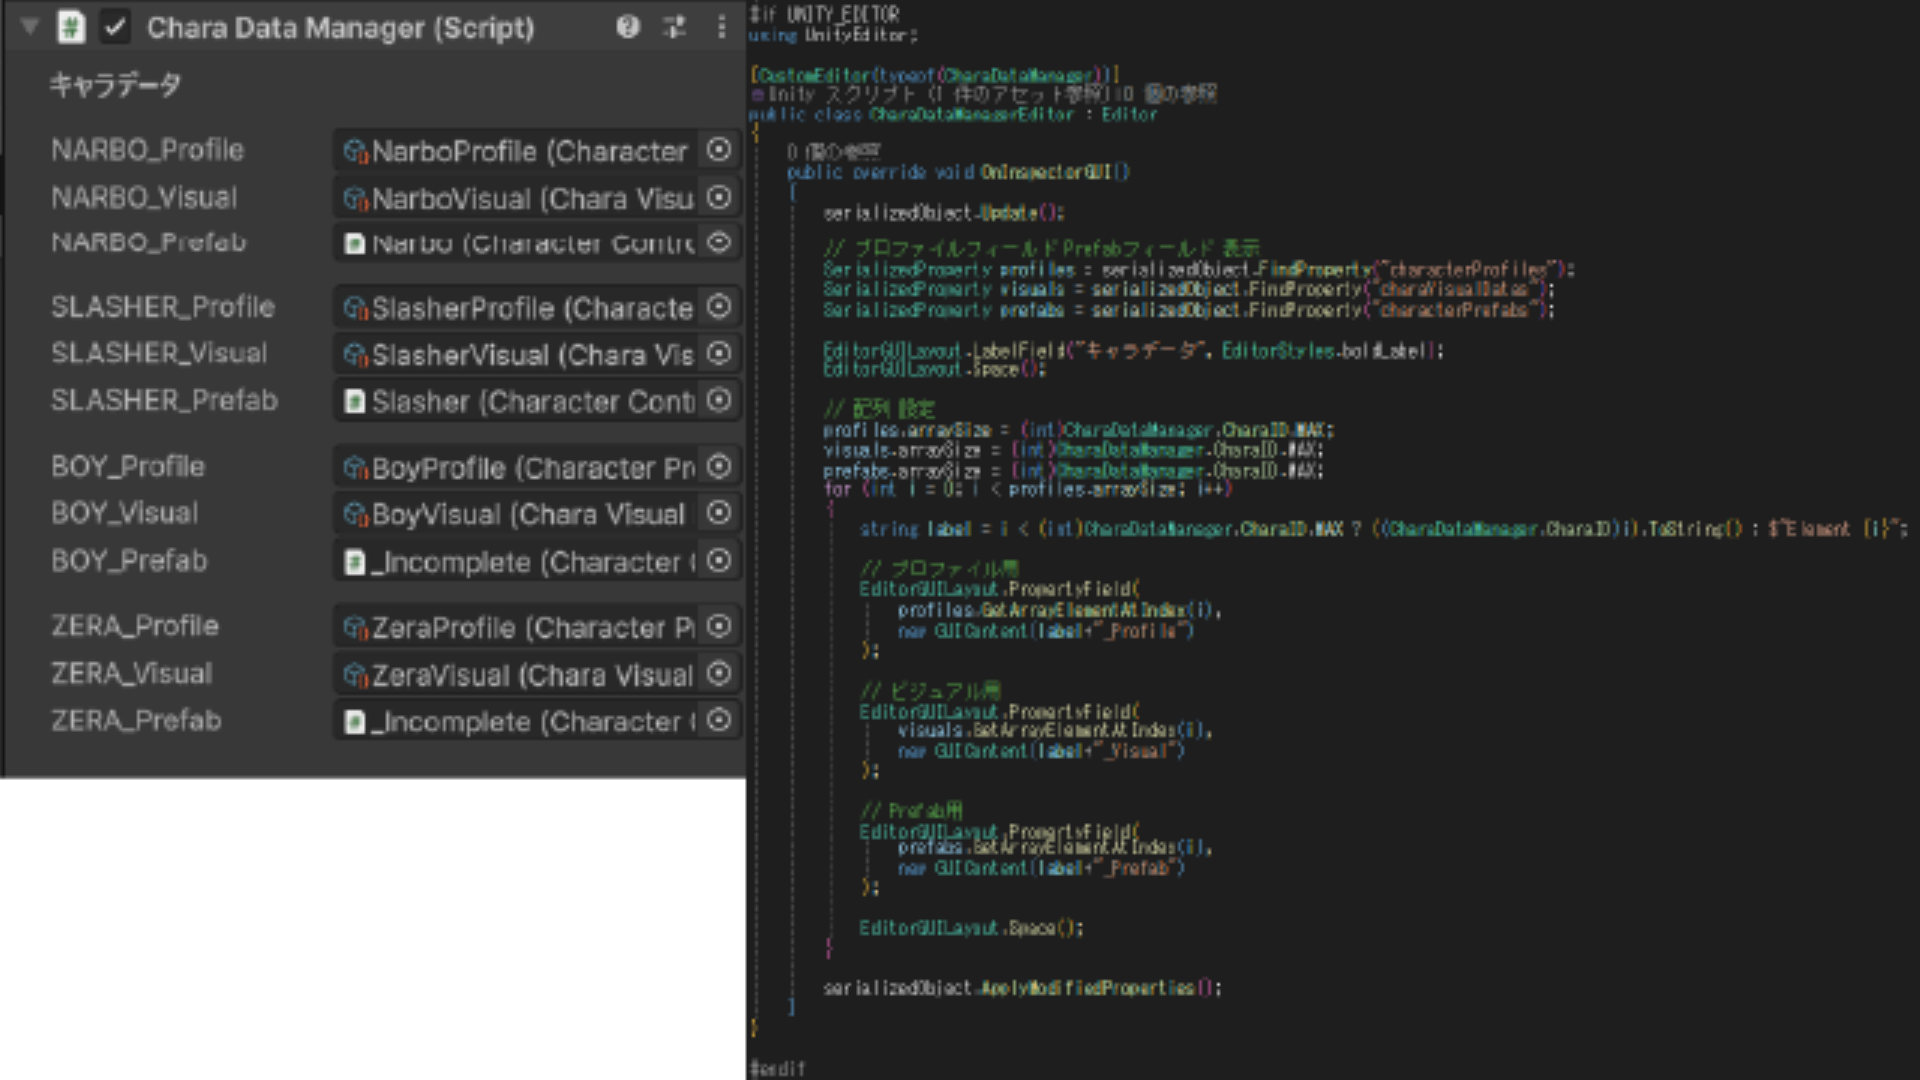
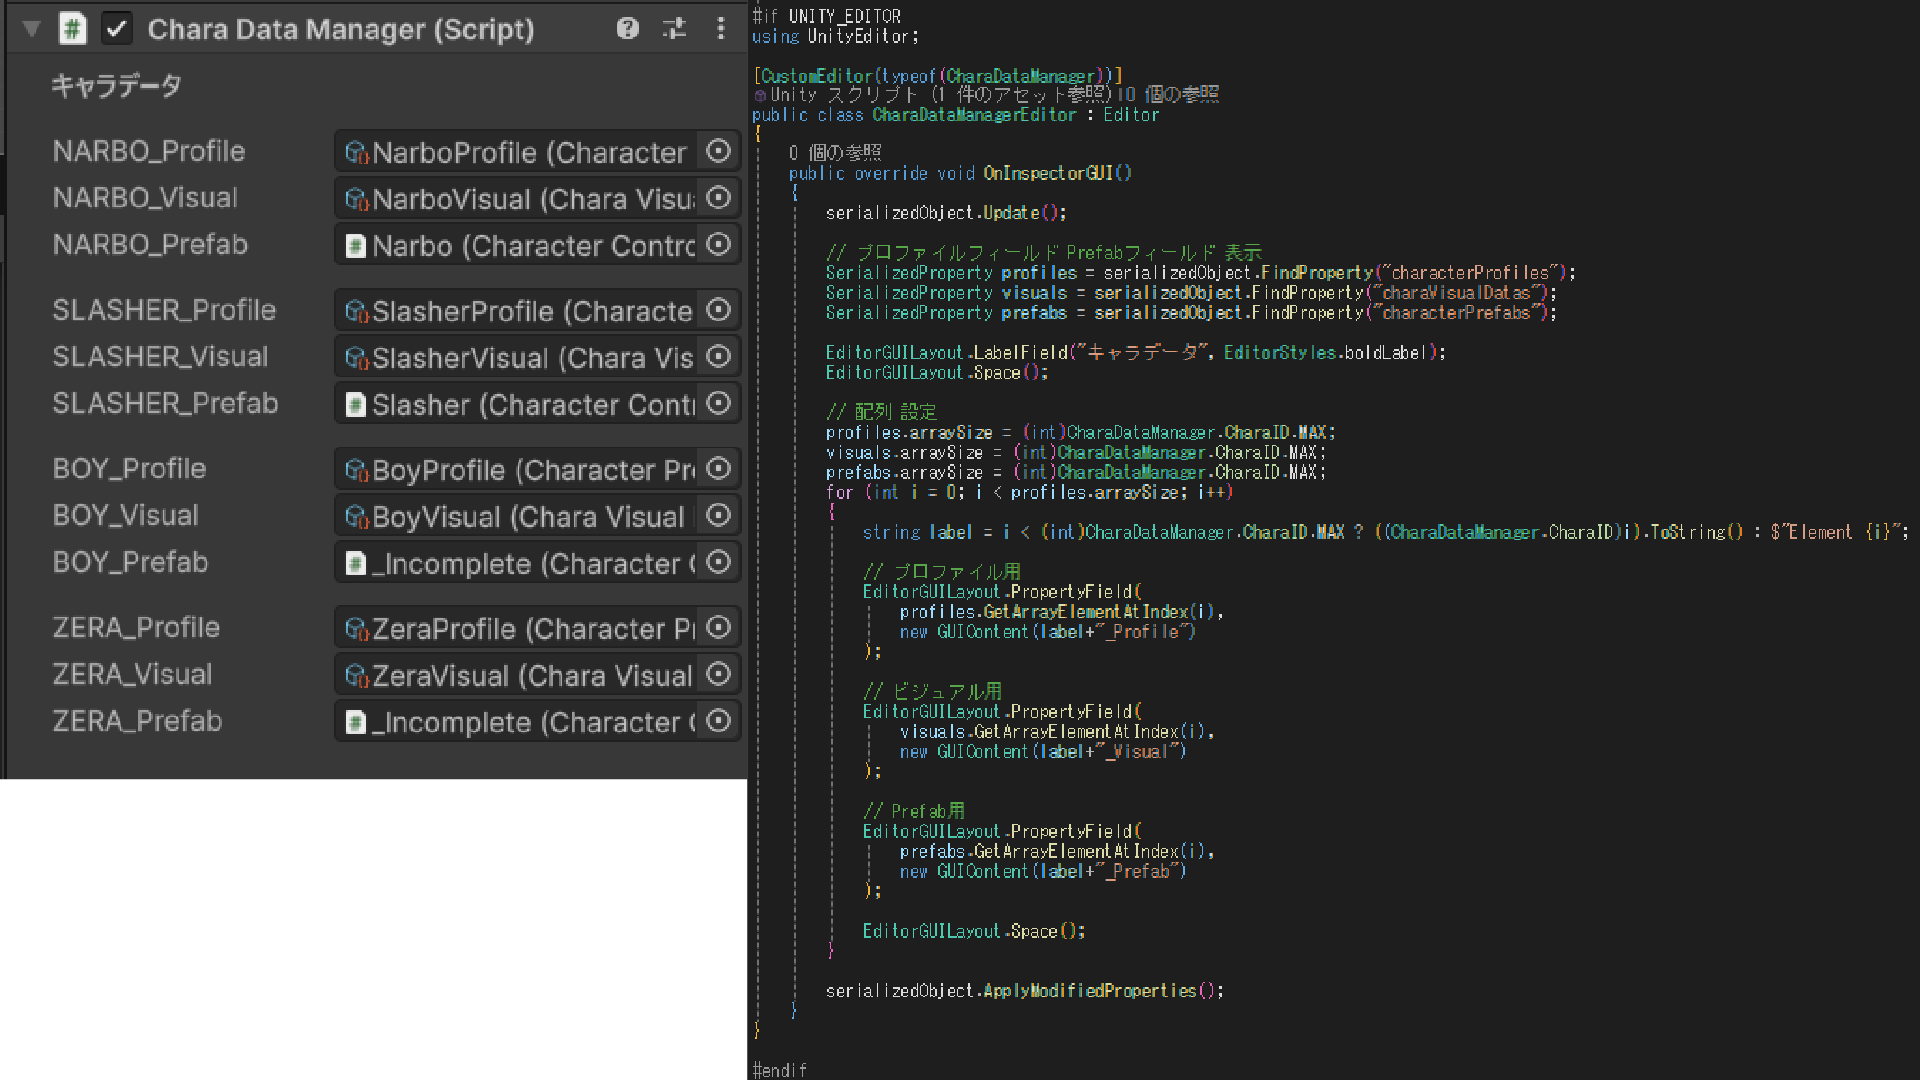
Update README

diff --git a/README.md b/README.md
@@ -8,8 +8,7 @@
 !["スライド1"](./RepositoryImages/ProjectManager_編集済.png)
 !["スライド2"](./RepositoryImages/SoundManager_編集済.png)
 !["スライド3"](./RepositoryImages/CharaDataManager_編集済.png)
-!["スライド4"](./RepositoryImages/CharaProfile.png)
-!["スライド5"](./RepositoryImages/CharaVisualData.png)
+!["スライド4"](./RepositoryImages/CharaData.png)
 
 ## 使用技術
 - Unity 6000.0.64f1
